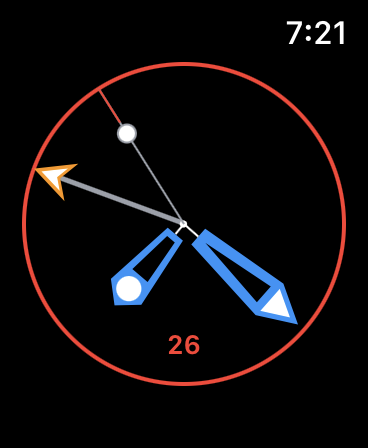
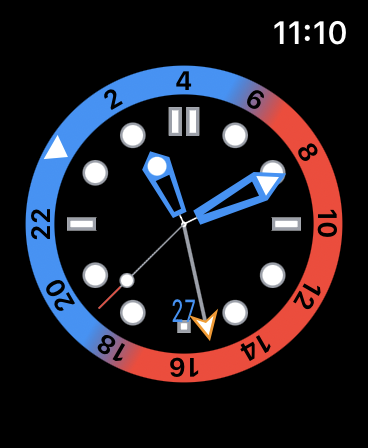
faces, rings etc

Changed region(s): [[0.0598, 0.125, 0.9565, 0.875], [0.7473, 0.0312, 0.9565, 0.125], [0.1793, 0.4688, 0.269, 0.5312]]

diff --git a/Shared/Geometry/DiverFace.swift b/Shared/Geometry/DiverFace.swift
@@ -9,8 +9,19 @@ import SwiftUI
 
 struct DiverFace: View {
   
+  let date: Int
   let one = 360 / 12
   let thickness:CGFloat = 2
+  
+  fileprivate func renderDate(_ reader: GeometryProxy, color: Color) -> some View {
+    
+    let usedHeight = reader.size.height/2
+    //hands
+    
+    return Text("\(date)").font(.body).foregroundColor(color).transformEffect(.init(scaleX: 1, y: 1.5)).position(x: reader.size.width/2, y: reader.size.height / 2)
+      
+      .transformEffect(.init(translationX: 0, y: reader.size.width/3.2))
+  }
   
   func getDecoration(reader: GeometryProxy, index:Int) -> AnyView {
     switch index {
@@ -19,17 +30,17 @@ struct DiverFace: View {
                       .transformEffect(.init(translationX: 0, y: -reader.size.width/2.5)).rotationEffect(.degrees(Double(one * index))).position(x: reader.size.width/2, y: reader.size.height/2))
     case 3, 9:
       return AnyView(Rectangle().fill().border(Color.gray, width: thickness).foregroundColor(.white)
-        .frame(width: reader.size.width / 20,height: reader.size.width / 9, alignment: /*@START_MENU_TOKEN@*/.center/*@END_MENU_TOKEN@*/).transformEffect(.init(translationX: 0, y: -reader.size.width/2.5))
+                      .frame(width: reader.size.width / 20,height: reader.size.width / 9, alignment: /*@START_MENU_TOKEN@*/.center/*@END_MENU_TOKEN@*/).transformEffect(.init(translationX: 0, y: -reader.size.width/2.5))
                       .rotationEffect(.degrees(Double(one * index)))
                       .position(x: reader.size.width/2, y: reader.size.height/2).position(x: reader.size.width/2, y: reader.size.height/2))
     case 6:
-      return AnyView(Rectangle().fill().border(Color.gray, width: thickness).foregroundColor(.white).frame(width: reader.size.width / 9 / 3,height: reader.size.width / 24, alignment: /*@START_MENU_TOKEN@*/.center/*@END_MENU_TOKEN@*/).position(x: reader.size.width/2, y: reader.size.height/2).transformEffect(.init(translationX: 0, y: -reader.size.width/2.5)).rotationEffect(.degrees(Double(one * index))))
+      return AnyView(Rectangle().fill().border(Color.gray, width: thickness).foregroundColor(.white).frame(width: reader.size.width / 20,height: reader.size.width / 20, alignment: /*@START_MENU_TOKEN@*/.center/*@END_MENU_TOKEN@*/).position(x: reader.size.width/2, y: reader.size.height/2).transformEffect(.init(translationX: 0, y: -reader.size.width/2.5)).rotationEffect(.degrees(Double(one * index))))
     case 12:
       return AnyView(HStack(alignment: /*@START_MENU_TOKEN@*/.center/*@END_MENU_TOKEN@*/, spacing: reader.size.width/50, content: {
-          ForEach(0..<2){ num in
-            Rectangle().fill().border(Color.gray, width: thickness).foregroundColor(.white)
-              .frame(width: reader.size.width / 20,height: reader.size.width / 9, alignment: /*@START_MENU_TOKEN@*/.center/*@END_MENU_TOKEN@*/)
-            }
+        ForEach(0..<2){ num in
+          Rectangle().fill().border(Color.gray, width: thickness).foregroundColor(.white)
+            .frame(width: reader.size.width / 20,height: reader.size.width / 9, alignment: /*@START_MENU_TOKEN@*/.center/*@END_MENU_TOKEN@*/)
+        }
       }).position(x: reader.size.width/2, y: reader.size.height/2).transformEffect(.init(translationX: 0, y: -reader.size.width/2.5)))
     default:
       return AnyView(EmptyView())
@@ -37,23 +48,24 @@ struct DiverFace: View {
   }
   
   
-    var body: some View {
-      
-      ZStack {
-        GeometryReader { reader in
-      ForEach(1..<13){ num in
-        
-        getDecoration(reader: reader, index: num)
-        
- 
+  var body: some View {
+    
+    ZStack {
+      GeometryReader { reader in
+        ForEach(1..<13){ num in
+          
+          getDecoration(reader: reader, index: num)
+          
+          
+        }
+        renderDate(reader, color: .blue)
       }
     }
-      }
-    }
+  }
 }
 
 struct DiverFace_Previews: PreviewProvider {
-    static var previews: some View {
-      DiverFace().previewLayout(.sizeThatFits)
-    }
+  static var previews: some View {
+    DiverFace(date:26).previewLayout(.sizeThatFits)
+  }
 }

diff --git a/Shared/Faces/SwiftMasterClockFace.swift b/Shared/Faces/SwiftMasterClockFace.swift
@@ -11,6 +11,13 @@ import Combine
 struct SwiftMasterClockFace: View {
   
   @State var show24Hour = false
+  @State var rotationAngleProvider = 0.0
+  
+  var rotationAngle: Angle {
+    print(rotationAngleProvider)
+    let one:Double = 360 / 24
+    return .degrees(one * rotationAngleProvider)
+  }
   
   var time: Time {
     timeProvider.publishedTime
@@ -79,11 +86,9 @@ struct SwiftMasterClockFace: View {
   var face: some View {
     ZStack{
       GeometryReader { reader in
-        Cerachrom().frame(width: reader.size.width, height: reader.size.height, alignment: /*@START_MENU_TOKEN@*/.center/*@END_MENU_TOKEN@*/)
-        DiverFace().frame(width: reader.size.width, height: reader.size.height, alignment: /*@START_MENU_TOKEN@*/.center/*@END_MENU_TOKEN@*/).scaleEffect(0.8)
-        //Circle().stroke(style:StrokeStyle(lineWidth: 2)).foregroundColor(Color.red)
-        
-        renderDate(reader, color: .red)
+        Cerachrom().rotationEffect(rotationAngle).frame(width: reader.size.width, height: reader.size.height, alignment: /*@START_MENU_TOKEN@*/.center/*@END_MENU_TOKEN@*/)
+        DiverFace(date: time.dayOfMonth).frame(width: reader.size.width, height: reader.size.height, alignment: /*@START_MENU_TOKEN@*/.center/*@END_MENU_TOKEN@*/).scaleEffect(0.8)
+       
         ZStack {
         if show24Hour {
           create24HourHand(reader, angle: time.hourAngle24).transition(AnyTransition.opacity.combined(with: .scale))
@@ -108,6 +113,8 @@ struct SwiftMasterClockFace: View {
     #if os(watchOS)
     face
       .padding(1)
+      .focusable(true)
+      .digitalCrownRotation($rotationAngleProvider,from:0,through:24, by: 1, sensitivity: .low, isContinuous: true, isHapticFeedbackEnabled: true)
       .drawingGroup()
     #else
     face

diff --git a/Shared/Geometry/Cerachrom.swift b/Shared/Geometry/Cerachrom.swift
@@ -8,10 +8,10 @@
 import SwiftUI
 
 let colaStops:[Gradient.Stop] = [
-  .init(color: .red, location: 0),
-  .init(color:.red, location: 0.4),
-  .init(color: .blue, location: 0.6),
-  .init(color:.blue, location: 1)
+  .init(color: .blue, location: 0),
+  .init(color:.blue, location: 0.4),
+  .init(color: .red, location: 0.6),
+  .init(color:.red, location: 1)
 ]
 
 let manBatStops:[Gradient.Stop] = [

diff --git a/README.md b/README.md
@@ -7,6 +7,8 @@
 ### Features
 
 * Skeleton Hands
+* 24Hour hand with GMT Cerachrom on Apple Watch
+* Classic "Diver" face
 * Day of Month Complication
 * "Authentic" ticking animation
 
